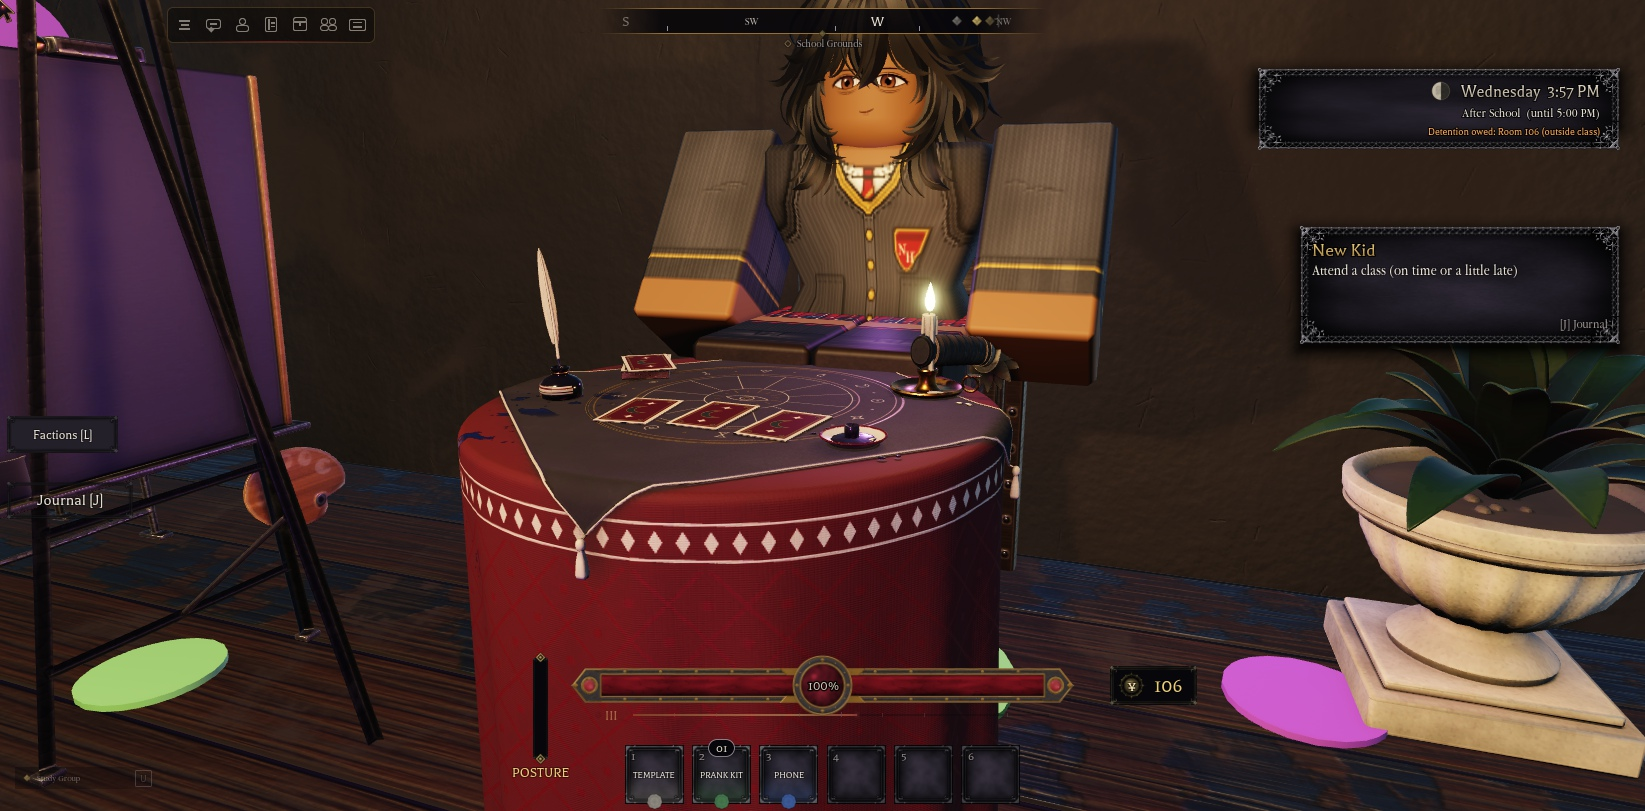
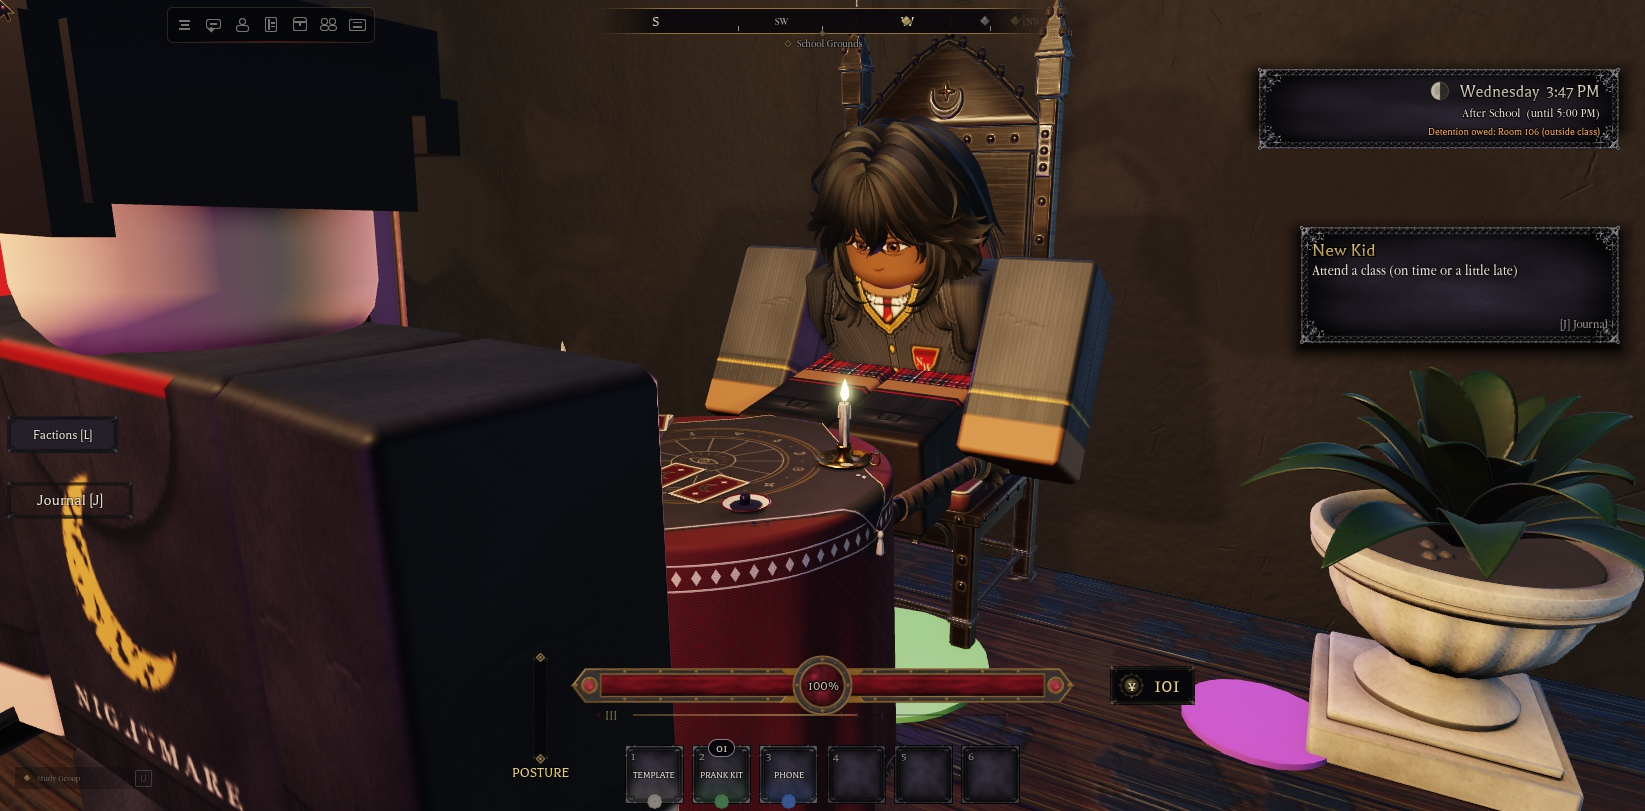
1.46.1: Sable's seated idle; NPCs sit on their seats and stay out of props
Sable breathes, reads the cards, looks up at the nearest student and leans in.
Seated NPCs rest hips and thighs on the seat and slide forward out of walls and
backrests; the Thinker and the staff-room slacker are reseated clear of armrests.
24 clique gathering spots moved out of props, and walking students no longer cut
corners into walls.

diff --git a/CHANGELOG.md b/CHANGELOG.md
@@ -2,6 +2,44 @@
 
 All notable changes to the NH Combat Test dev place. The newest entries come first.
 
+## [1.46.1] - 2026-11-05: Sable's seated idle; NPCs sit on their seats and stay out of props
+
+### Added
+- **Sable's seated idle** (new `Controllers.World.SeerIdle`, owner: "Give the seer an actual sit idle anim too"):
+  - A 9-second keyframed loop that every client plays on Sable's R6 joints while Sable sits, on top of the seated pose.
+  - Sable breathes, looks down across the cards, glances up at the nearest student within 14 studs (or out at the room), leans in toward them, then settles back over the cards.
+  - Eased between keys, and it only runs within 90 studs of the camera.
+  - The first draft had Sable reach out and tap a card, but an R6 arm can't reach the table from the chair, so the hands stay low.
+
+### Fixed
+- **Seated NPCs sat inside their seats or floated over them** (`Features.Seats`, used by `Features.Schedules` and `Features.AmbientNpcs`, owner: "Make sure the seer and the other NPC's arent hovering over seats or overlap with anything"):
+  - **Hips and thighs:** both rest on the seat now. R6 sitting poses swing the legs forward from the hip, so the thighs used to sink half their thickness into the cushion.
+  - **Out of backrests and walls:** after seating, a sitter slides forward a little at a time until nothing behind them is pushed into (the wall, a picture frame, the next prop), or as far as it gets (`Seats.Unclip`). Props switch CanQuery off, so the nearby ones are counted for that test and put back afterwards.
+  - `AmbientNpcs` now uses the shared seat code instead of its own copy.
+- **The ambient sitters:**
+  - **The Thinker** moves to the staff room's armless teacher chair. An R6 student, about 3.6 studs across with the arms, is wider than the 2.7-stud armchairs, so the arms always went through the armrests.
+  - **The staff-room slacker** moves to the middle of the sofa, clear of both armrests.
+- **Sable:**
+  - The torso floated 0.7 above the cushion and the legs went into the tablecloth. Sable is now seated through the same seat code, with the legs lifted onto the cushion level with the hips.
+  - The table is placed at 0.9 scale (its top at a seated R6's middle) and 0.25 further out, so the knees clear the cloth (`Studio/props_setup26.luau`, `TABLE_SCALE`).
+- **Students stood inside props at 24 of the 61 clique gathering spots**, among them a study table, a sofa and armchairs, chapel pews, the altar, easels, a fountain, bleachers and a log. `Studio/spots_clear.luau` moved each blocked spot to the nearest clear floor in the same room, at least 2 studs from the clique's other spots (attribute `NHSpotWas` keeps the old place). All 61 now check clear.
+- **Walking students cut corners into walls:** they used to turn toward the next waypoint while still 3.5 studs short, dragging along doorframes and corners. Now they only cut early when a body-wide line to the next waypoint is clear (`Schedules` `LineClear`).
+
+### Verified (Studio Play, test slot "Testy")
+- **An audit of every NPC** (its lowest body part against the surface under it, and every prop its body passes through, with no-query props counted):
+  - **The 13 cast NPCs at their posts:** standing on the floor, clear.
+  - **Sable:** on the cushion (−0.09), touching only the chair, the legs out of the table (`docs/img/fortune-sable.jpg`).
+  - **The slacker:** on the sofa, the head out of the picture frame (`docs/img/npc-seating-sofa.jpg`).
+  - **A Room 103 class of six** (9:20 AM): all on their chairs (−0.09), legs under the desks, arms on the desktops (`docs/img/npc-seating-class.jpg`).
+  - **The Early bird:** at the desk, arms folded on it.
+- **Walking:** 120 samples of moving students over 24 s. 6 brushed something in passing: two bumped each other, two passed pillars, one squeezed between chapel pews. None was stuck in a wall. Before, a student was stuck in an outer wall corner for 6 s.
+- No script errors.
+- **Left as they are:**
+  - The kneeling Detention kid and the push-up and pull-up kids are posed off the floor on purpose.
+  - The test dummies and the cape mannequins in the combat test area weren't touched.
+  - The slacker's crossed leg passes through the other leg, which is the SitChill animation itself.
+- **Not tested:** benches with a student sitting on them during a break, Sable getting up after being downed, and the idle on another player's screen.
+
 ## [1.46.0] - 2026-11-05: The statue kit
 
 ### Added

diff --git a/docs/School-Simulation.md b/docs/School-Simulation.md
@@ -106,6 +106,9 @@ A 40-minute class is about 3 minutes 20 seconds of real time, and a passing peri
 
     A prop's `SeatHeight` attribute overrides its height. Other seats fall back to a raycast.
   - **The fix:** once the sitting pose plays, the hips are settled onto that height, a little toward the backrest. Before this, every seated NPC sank 1.2 to 1.9 studs into the seat, and the chair sitter's legs went through the floor.
+  - **Thighs too (1.46.1):** `Seats.Settle` rests whichever is lower, the hips or the thighs' hip end, on the seat. R6 sitting poses swing the legs forward from the hip, so the thighs used to sink half their thickness into the cushion.
+  - **Out of what's behind (1.46.1):** when given the seat prop, `Seats.Unclip` slides the sitter forward 0.1 at a time, up to 1.2. It stops at the first place where the torso, head and arms touch nothing but the seat and the floor, or else at the place with the fewest parts touching. Nearby props have CanQuery off, so they're switched on for the test and back off afterwards. `Schedules` passes the chair, and `AmbientNpcs` uses this instead of its own copy.
+  - **Armchairs are too narrow for an R6** (2.7 studs against about 3.6 with the arms), so nobody is seated in them. The Thinker sits in the staff room's armless teacher chair, and the slacker in the middle of the sofa.
   - **Standing up:** students stand up behind a chair (the desk is in front) and in front of a bench.
 - **Test note:** moving the clock into a class period marks Studio test players absent, so use `PlanForTests`.
 
@@ -150,3 +153,13 @@ Every NPC is built from `ServerScriptService.Services.AI.AI.Rig`. Students, the 
 - **Standing up from a desk:** a student used to stand up 2.2 studs behind the chair, and where rows are tight (Room 103) that spot is the next row's desk, so they stood up on top of it and got stuck. `Local.StandSpot` now tries eight places around the seat and takes the first one at floor level with room to stand.
 - **Ledges:** the gym floor sits a stud above its doorway, and the NPCs couldn't climb it. A student stuck at a step on its path now hops it, twice at most. It never hops on the straight-line fallback (used when no path is found), so it can't jump onto furniture.
 
+## Standing clear of props (1.46.1)
+
+- **Gathering spots:** 24 of the 61 clique gathering spots (`NHCliqueSpot`) put a standing student inside a prop: a study table, the Parlor's sofa and armchairs, chapel pews and the altar, easels, the fountain, the bleachers, a log.
+  - `Studio/spots_clear.luau` treats a student's body as a 1.8 × 4.4 × 1.8 box on the floor. It moves each blocked spot to the nearest clear floor (rings of 0.5 to 5 studs) at the same floor height, inside the same region box, at least 2 studs from the clique's other spots (1.6 past 3 studs).
+  - The old place is kept as the spot's `NHSpotWas` attribute. Run it again with `DRY = true` to check: all 61 come back clear.
+- **Corners:** walking students used to turn toward the next waypoint while still 3.5 studs short of the current one, cutting doorframes and corners. They now cut early only when `Local.LineClear` finds a body-wide line (three rays, 0.9 apart, at waist height) to the next waypoint clear; otherwise they walk to within 1.2.
+- **Checking it:** `Studio/tests/npc_audit.luau` (server, in Play) reports every NPC's gap under its lowest body part, or under its torso when it's sitting, and every prop its body passes through, with the no-query props counted.
+
+![A class seated](img/npc-seating-class.jpg)
+![The staff-room sofa](img/npc-seating-sofa.jpg)

diff --git a/docs/Implementation-Status.md b/docs/Implementation-Status.md
@@ -12,6 +12,7 @@ How each result was checked:
 
 | Change | Where | Verified |
 |---|---|---|
+| **1.46.1**: Sable's seated idle (breathes, reads the cards, looks up at you, leans in); seated NPCs rest hips and thighs on their seats and slide out of walls and backrests; the Thinker and the slacker reseated clear of armrests; 24 clique gathering spots moved out of props; walking students stop cutting corners into walls | `Features.Seats` (`Settle`, `Unclip`), `Features.Schedules` (`LineClear`), `Features.AmbientNpcs`, `Features.Fortune`, `World.SeerIdle` (new); `Studio/spots_clear.luau`, `Studio/props_setup26.luau`, `Studio/tests/npc_audit.luau` | **[PT]** an all-NPC audit after school and in a Room 103 class (all seated on their seats, cast clear), all 61 spots clear, 120 walking samples with none stuck in a wall; Sable getting up after being downed and the bench sitters at break not tried |
 | **1.46.0**: the statue kit (props batch 27: ten original R6-built statues, posed on their joints, in marble, soot stone, bronze, black marble, crimson and gilt, on gothic plinths: the founder, a mourning angel, a gargoyle, a vampire lord, a howling werewolf, a lantern priest, a hollow wraith, a knight guardian, a fencing duel, a raven scholar) | `art/props/nh_props_batch27.py`, `art/props/statues_batch27.json`, `ServerStorage.NHProps`, `workspace.NHPropsShowcase.Statues` (`NHPropBatch27`) | **[PT]** placed with no clashes, every map loading, day and night screenshots; in Play a test rig was stopped by a plinth and the lantern flickers; a player character climbing them not tried |
 | **1.45.0**: the Ink Club fortune teller: Sable Vey sits at a tarot table in the Ink Studio and gives one ¥5 reading a day, a tarot card reveal with one vague but true hint (rumbles, dares, moons, lost things, the special, superlatives, grades), plain at Friendly; 8 painted tarot cards; props batch 26 (the seer's table and chair) | `Features.Fortune`, `Gui.Fortune`, `Dialogue.Sable`, `Config.Npcs`, `NpcLooks`, `Social.Npcs` (seated), `Features.LostFound` (`Loose`), `UI.Theme` (`FortuneCards`), `NHTestBridge`; `art/ui/hud/make_tarot_cards.py`, `art/props/nh_props_batch26.py`, `Studio/props_setup26.luau` | **[PT]** Sable seated, six hint types live, a paid reading through the dialogue, refused twice, the Moon card art, a Friendly plain hint; getting up after being downed, Reduce Motion and the Crown with real leaders not tried |
 | **1.44.0**: the door kit (props batch 25: 7 doors finished on both faces, rigged leaves, an Open / Close prompt that swings a door away from whoever opens it, auto-close that waits for the doorway to clear, locked doors that rattle, a sliding door and a lifting hatch) | `art/props/nh_props_batch25.py`, `art/props/doors_batch25.json`, `Services.Features.Doors`, `Controllers.World.Doors` (tag `NHDoor`), `ServerStorage.NHProps`, `workspace.NHPropsShowcase.Doors` (`NHPropBatch25`) | **[PT]** prompts on every door; with a server test rig: blocked when shut, opened from each side (swings away), walked through, held open while the doorway was occupied, locked rattle; every leaf, the hatch and the slider moved on the client; a player character and a door in a school wall not tried |

diff --git a/docs/Cliques.md b/docs/Cliques.md
@@ -43,7 +43,7 @@ Students go to their clique's hangout:
 
 At the hangout they walk to a free **gathering spot**, face the group, sometimes lean, chat a while, then move to another spot.
 
-- **Spots** are parts tagged `NHCliqueSpot`, with the attribute `NHCliqueSpot = <clique id>`.
+- **Spots** are parts tagged `NHCliqueSpot`, with the attribute `NHCliqueSpot = <clique id>`. (1.46.1) None of them puts a student inside a prop any more; see School-Simulation.md, Standing clear of props.
   - **Count:** 61 in all: Athletes 8, Court 8, Delinquents 8, Ordinary 8, Pack 8, Vigil 7, Choir 7, Ink 7.
   - **In existing places:** the Vigil's are in the Archive, the Athletes' are courtside in the gym, and the Delinquents' are on the Back Lot.
 - **Taken spots:** a spot counts as taken while a student is walking to it.
@@ -425,6 +425,9 @@ To run it again: set `Config.MainMenu.SlotCount` to 4, play, and use TestBridge 
 
 - **Sable Vey**, "Ink Club Seer" (`Config.Npcs` Sable, `NpcLooks` Sable), sits at the tarot table in the Ink Studio (props batch 26).
   - The root is anchored at the post with a seated pose (`POSE`: hips forward, hands lowered), the Animate script is paused, and the model has `NHSeated`. `Social.Npcs` doesn't turn a seated NPC to face the player.
+  - **(1.46.1) On the cushion:** the hip joints lift the legs half their thickness, so the thighs lie level with the hips. `Features.Seats` then rests Sable on the chair's cushion (`SeatHeight` 1.6) and keeps clear of the chair back.
+  - **(1.46.1) The table:** placed at 0.9 scale, 3.25 in front of the chair, so the knees clear the cloth.
+  - **(1.46.1) The idle** (`Controllers.World.SeerIdle`, every client): a 9-second keyframed loop on the joints. Sable breathes, looks down at the cards, glances up at the nearest student within 14 studs, leans in toward them and settles back.
   - Sable carries `Clique = Ink` on the model, but has no Clique in `Config.Npcs`, so the "join us" choices don't appear.
 - **A reading:** "Read my fortune. (¥5)" in Sable's dialogue, once per event day (`PlayerData.Social.Fortune {Day, Card, Text}`). With no Yen, or nothing to tell, Sable says so and nothing is taken.
 - **The hints** (`Fortune.Hints(P)`): each topic gives a riddle and a plain line. At Ink Club standing 20+ (Friendly) you get the plain one.

diff --git a/docs/School-Props.md b/docs/School-Props.md
@@ -699,7 +699,7 @@ Door, flap and tap origins sit on their hinge lines.
 | SeerChair | 11.8k | 2.40 x 2.01 x 6.06 | a tall black gothic chair: iron studs and straps, tracery over crimson velvet, crocketed pinnacles and an iron crescent; no arms; the cushion at 1.6 |
 
 - **Baked** at 2048 with 64 samples on the GPU. The maps are under the group (the ids are in `Studio/props_setup26.luau`). Both pieces of the table share its atlas.
-- **In Roblox:** `Studio/props_setup26.luau` builds the templates in `ServerStorage.NHProps` (`NHBuildKit = "Seer"`). It places the set in the Ink Studio (`TheInkStudio.SeerCorner`): the table at (42.2, 226.5) facing into the room, and the chair 3 studs behind it against the west wall. Sable's post (`NpcPost = Sable`) sits 0.15 in front of the chair's origin, 1.5 above the cushion. A copy is on the showcase at x 110, z −170.5 (`NHPropBatch26`).
+- **In Roblox:** `Studio/props_setup26.luau` builds the templates in `ServerStorage.NHProps` (`NHBuildKit = "Seer"`). It places the set in the Ink Studio (`TheInkStudio.SeerCorner`): the table at (42.2, 226.5) facing into the room, and the chair 3 studs behind it against the west wall. Sable's post (`NpcPost = Sable`) sits 0.15 in front of the chair's origin, 1.5 above the cushion. A copy is on the showcase at x 110, z −170.5 (`NHPropBatch26`). (1.46.1) Placed tables are scaled to 0.9 (`TABLE_SCALE`) so the top sits at a seated R6's middle, with the chair 3.25 behind; the chair has `SeatHeight` 1.6.
 
 ![The preview](img/seer-preview.png)
 

diff --git a/updates/discord/game-updates/2026-11-05-seating-fixes.md b/updates/discord/game-updates/2026-11-05-seating-fixes.md
@@ -1,0 +1,9 @@
+# Sable comes alive, and everyone sits properly (1.46.1)
+
+**Nightmare Highschool dev update, 2026-11-05**
+
+- **Sable moves now.** The Ink Club's seer breathes, reads the cards, looks up at you when you come close, and leans in like they already know your future.
+- **No more sinking into chairs.** Students sit *on* their seats now: no more legs vanishing into cushions or heads through the staff room wall.
+- **The Thinker** finally has a chair that fits.
+- **No more standing inside the furniture.** Students hanging out with their clique used to stand inside tables, sofas, pews, easels and even the fountain. They've all been moved to clear floor.
+- **Fewer wall-huggers.** Students walking around the school no longer scrape through doorframes and corners.

diff --git a/updates/discord/README.md b/updates/discord/README.md
@@ -11,6 +11,7 @@ Two kinds of post, matching the server's channels:
 - 2026-11-02, **The Living School** (1.10 to 1.11): [post](announcements/2026-11-02-the-living-school.md)
 
 ## Game updates
+- [2026-11-05-seating-fixes](game-updates/2026-11-05-seating-fixes.md)
 - [2026-11-05-statue-kit](game-updates/2026-11-05-statue-kit.md)
 - [2026-11-05-fortune-teller](game-updates/2026-11-05-fortune-teller.md)
 - [2026-11-05-door-kit](game-updates/2026-11-05-door-kit.md)
